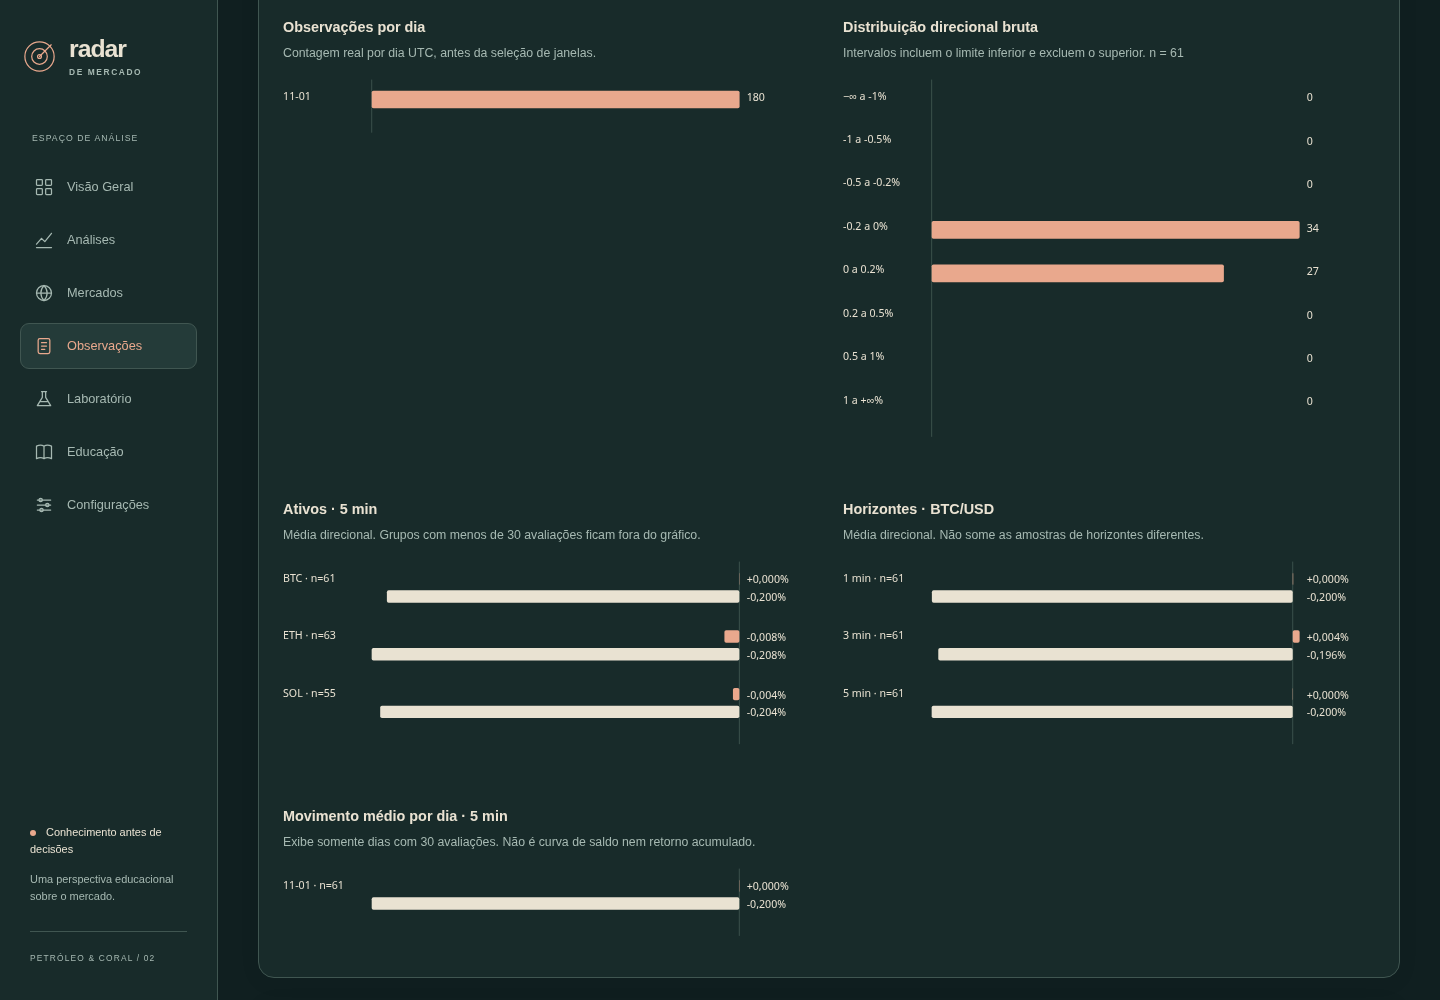
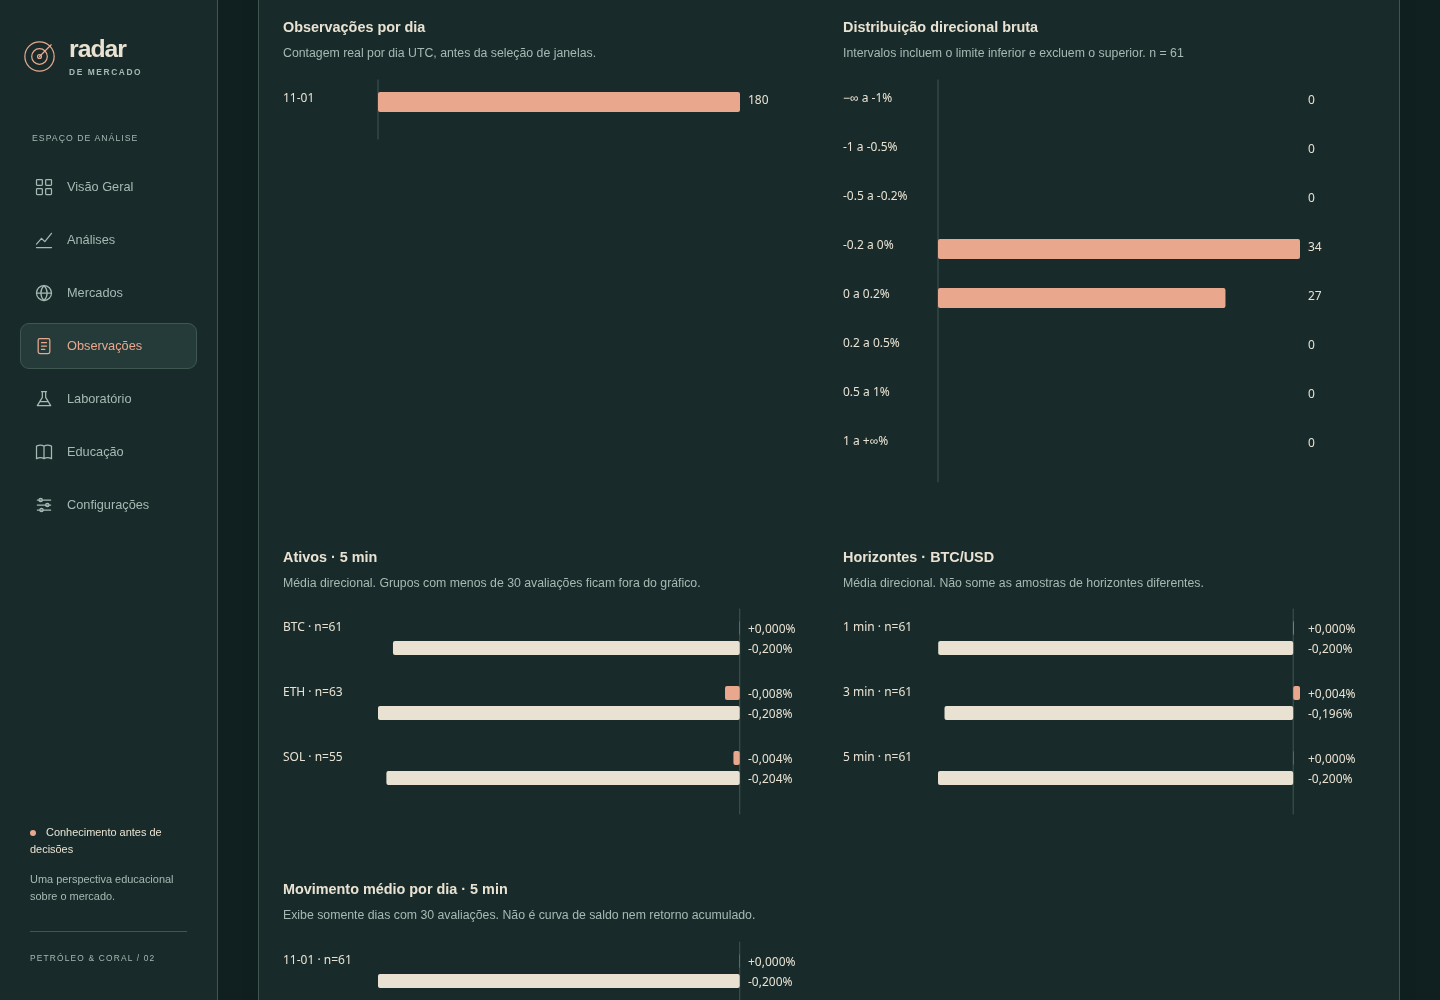
fix: keep statistical charts readable on narrow screens

diff --git a/intelligence.js b/intelligence.js
@@ -7,6 +7,7 @@
  const pct=n=>Number.isFinite(n)?(n>0?'+':'')+fmt(n)+'%':'—';
  const date=n=>Number.isFinite(n)?new Date(n).toLocaleString('pt-BR'):'Sem registro no período';
  const label=m=>m==='legacy-unversioned'?'Anterior · não comprovada':m;
+ let chartSnapshot=null,monitorSnapshot=null,resizeTimer=null;
  let query=null,cursors=[null],page=0,next=null,busy=false,started=false;
  async function request(path,params){const response=await fetch(BASE+path+'?'+params,{signal:AbortSignal.timeout(12000)});const data=await response.json();if(!response.ok)throw Error(data.error?.message||'Consulta indisponível');return data}
  function table(headers,rows){const t=el('table',undefined,'history-table'),head=el('thead'),tr=el('tr');headers.forEach(h=>tr.append(el('th',h)));head.append(tr);t.append(head);const body=el('tbody');for(const row of rows){const tr=el('tr');row.forEach((value,i)=>{const td=el('td');td.dataset.label=headers[i];if(typeof value==='string')td.textContent=value;else td.append(value);tr.append(td)});body.append(tr)}t.append(body);return t}
@@ -24,7 +25,7 @@
  function bars(parent,title,items,{percent=false,paired=false,note=''}={}){
   const box=el('article',undefined,'intelligence-chart');box.append(el('h3',title));parent.append(box);
   if(!items.length){empty(box,'Amostra insuficiente para este gráfico. São necessárias 30 avaliações válidas por grupo.');box.prepend(el('h3',title));return}
-  box.append(el('p',note));const ns='http://www.w3.org/2000/svg',svg=document.createElementNS(ns,'svg');const width=600,row=paired?65:49,height=items.length*row+30,left=100,right=85,plot=width-left-right;
+  box.append(el('p',note));const ns='http://www.w3.org/2000/svg',svg=document.createElementNS(ns,'svg');const width=Math.max(280,Math.min(700,box.clientWidth||600)),row=paired?65:49,height=items.length*row+30,left=95,right=75,plot=width-left-right;
   svg.setAttribute('viewBox',`0 0 ${width} ${height}`);svg.setAttribute('role','img');svg.setAttribute('aria-label',title+'. '+items.map(x=>x.label+': '+fmt(x.value,percent?3:0)+(percent?'%':'')+(paired?', após custos '+pct(x.net):'')).join('; '));
   const values=items.flatMap(x=>paired?[x.value,x.net]:[x.value]).filter(Number.isFinite),min=Math.min(0,...values),max=Math.max(0,...values),span=max-min||1,scale=v=>left+(v-min)/span*plot,zero=scale(0);
   function add(tag,attrs,text){const n=document.createElementNS(ns,tag);for(const [k,v] of Object.entries(attrs))n.setAttribute(k,v);if(text!==undefined)n.textContent=text;svg.append(n)}
@@ -33,6 +34,7 @@
   box.append(svg);
  }
  function charts(data){
+  chartSnapshot=data;
   const area=$('hiCharts');area.replaceChildren();const symbol=data.filters.symbol||'BTCUSD',h=data.filters.horizon||5,g=data.groups.find(x=>x.symbol===symbol&&x.horizon===h);
   $('hiChartContext').textContent=label(data.filters.methodology)+' · Distribuição e evolução: '+symbol.replace('USD','/USD')+' / '+h+' min. Coral: bruto; areia: após custos. Comparações usam amostras distintas, sem indicar o melhor ativo futuro.';
   bars(area,'Observações por dia',data.daily.slice(-31).map(x=>({label:x.day.slice(5),value:x.observations})),{note:'Contagem real por dia UTC, antes da seleção de janelas.'});
@@ -48,6 +50,7 @@
   $('hiHistory').replaceChildren(table(['Registro','Condição observada','Resultados direcionais brutos','Origem'],data.items.map(x=>[detail(x.symbol.replace('USD','/USD'),date(x.time)),detail(x.direction===1?'Alta ↑':x.direction===-1?'Baixa ↓':'Inválida','Referência: '+fmt(x.reference_price,2)+' '+(x.quote||'cotação não comprovada')),detail((query.get('horizon')?[Number(query.get('horizon'))]:[1,3,5]).map(h=>h+' min: '+(Number.isFinite(x.results[h])?pct(x.results[h]):'pendente / sem resultado')).join(' · '),label(x.methodology_version)),detail(x.source,x.study_type==='prospective'?'Prospectiva · D1':'Origem histórica sem comprovação')])));
  }
  function monitor(data,health){
+  monitorSnapshot={data,health};
   const states={operational:'Operacional',partial:'Parcialmente operacional',cooldown:'Aguardando limite da API',stale:'Dados desatualizados',unavailable:'Indisponível'};
   const status=health?states[health.providerState]||health.providerLabel||'Estado não informado':'Estado atual indisponível';
   $('hiMonitorStatus').textContent='Worker: '+(health?'respondeu à consulta':'sem resposta confirmada')+' · Fonte: '+status+' · Última execução no período: '+date(data.last_run?.started_at)+' · Última execução completa com sucesso: '+date(data.last_all_success_in_complete_slots)+'. Monitoramento confirmado desde '+date(data.instrumented_from)+'.';
@@ -66,7 +69,7 @@
  async function refresh(){
   if(busy)return;try{query=filters()}catch(e){$('hiStatus').textContent=e.message;return}
   busy=true;cursors=[null];page=0;next=null;$('hiRefresh').disabled=true;$('hiNext').disabled=true;$('hiPrevious').disabled=true;$('hiStatus').textContent='Consultando registros armazenados…';
-  for(const id of ['hiSummary','hiStatistics','hiCharts','hiHistory','hiMonitoring','hiAvailability','hiCooldown'])$(id).replaceChildren();$('hiPageStatus').textContent='Carregando histórico…';$('hiMonitorStatus').textContent='Carregando diagnósticos…';
+  chartSnapshot=null;monitorSnapshot=null;for(const id of ['hiSummary','hiStatistics','hiCharts','hiHistory','hiMonitoring','hiAvailability','hiCooldown'])$(id).replaceChildren();$('hiPageStatus').textContent='Carregando histórico…';$('hiMonitorStatus').textContent='Carregando diagnósticos…';
   const monitoringParams=new URLSearchParams({from:String(Math.max(Number(query.get('from')),Number(query.get('to'))-7*86400000)),to:query.get('to')});
   const responses=await Promise.allSettled([request('/history',query),request('/statistics',query),request('/collector-history',monitoringParams),request('/health',new URLSearchParams())]);
   if(responses[0].status==='fulfilled'){const d=responses[0].value;history(d);for(const value of d.methodologies)if(![...$('hiMethod').options].some(x=>x.value===value)){const option=el('option',label(value));option.value=value;$('hiMethod').append(option)}}else $('hiPageStatus').textContent=responses[0].reason.message;
@@ -77,7 +80,9 @@
  document.addEventListener('DOMContentLoaded',()=>{
   const now=Date.now();$('hiFrom').value=new Date(now-6*86400000).toISOString().slice(0,10);$('hiTo').value=new Date(now).toISOString().slice(0,10);
   $('intelligenceFilters').addEventListener('submit',e=>{e.preventDefault();refresh()});$('hiNext').addEventListener('click',()=>{if(next&&!busy){cursors[page+1]=next;loadPage(page+1,next)}});$('hiPrevious').addEventListener('click',()=>{if(page>0&&!busy)loadPage(page-1,cursors[page-1])});
-  function activate(){if(location.hash==='#observacoes'&&!started){started=true;refresh()}}activate();window.addEventListener('hashchange',activate);
+  function redraw(){if(chartSnapshot)charts(chartSnapshot);if(monitorSnapshot)monitor(monitorSnapshot.data,monitorSnapshot.health)}
+  function activate(){if(location.hash!=='#observacoes')return;if(!started){started=true;refresh()}else redraw()}activate();window.addEventListener('hashchange',activate);
+  window.addEventListener('resize',()=>{clearTimeout(resizeTimer);resizeTimer=setTimeout(()=>{if(location.hash==='#observacoes')redraw()},150)});
   setInterval(()=>{if(started&&!document.querySelector('[data-view="observacoes"]').hidden&&document.visibilityState==='visible'&&$('cloudAuto').checked)refresh()},300000);
  });
  root.RadarIntelligence=Object.freeze({statistics,charts,history,monitor,refresh});

diff --git a/scripts/verify-preview-v60.py b/scripts/verify-preview-v60.py
@@ -1,0 +1,31 @@
+"""Read-only public verification. TLS verified by curl. No Coinbase/probe active calls."""
+import json,pathlib,subprocess,time,urllib.parse,statistics,math,hashlib
+root=pathlib.Path(__file__).resolve().parent.parent
+site='https://radar-de-mercado-preview.rvc3426.workers.dev';collector='https://radar-cloud-collector-preview.rvc3426.workers.dev'
+def fetch(url):return subprocess.check_output(['curl','--fail-with-body','-sS','--max-time','25',url])
+def get(path,params=None):return json.loads(fetch(collector+path+('?' + urllib.parse.urlencode(params) if params else '')))
+assets={}
+for f in ['index.html','indicators.js','statistics.js','engine.js','dashboard.js','intelligence.js','petroleo.css']:
+ remote=fetch(site+'/'+f);local=(root/f).read_bytes();assert remote==local,f;assets[f]=hashlib.sha256(remote).hexdigest()
+now=int(time.time()*1000);params={'from':now-7*86400000,'to':now-30*60000,'methodology':'v5.7','limit':25}
+items=[];cursor=None;pages=0
+while True:
+ d=get('/history',{**params,**({'cursor':cursor} if cursor else {})});items.extend(d['items']);pages+=1;cursor=d['next_cursor'];assert pages<100
+ if not cursor:break
+assert len(items)==d['total'];assert len({(x['time'],x['symbol']) for x in items})==len(items)
+s=get('/statistics',params);assert s['totals']['observations']==len(items)
+for g in s['groups']:
+ rows=sorted([x for x in items if x['symbol']==g['symbol']],key=lambda x:x['time']);selected=[];end=-math.inf
+ for x in rows:
+  if x['time']>=end:selected.append(x);end=x['time']+g['horizon']*60000
+ values=[x['results'][str(g['horizon'])] for x in selected if str(g['horizon']) in x['results']]
+ assert g['evaluated']==len(values);assert g['pending']==len(selected)-len(values)
+ if values:
+  assert abs(g['mean_gross']-statistics.mean(values))<1e-10
+  assert abs(g['median_gross']-statistics.median(values))<1e-10
+  assert abs(g['mean_net']-(statistics.mean(values)-.2))<1e-10
+  assert g['favorable']==sum(v>0 for v in values)
+health=get('/health');probe=get('/probe');assert health['version']=='5.7.2';assert probe['mode']=='stored';assert health['workerOk']
+monitor=get('/collector-history',{'from':now-86400000,'to':now});assert len(monitor['assets'])==3
+output={'verifiedAt':now,'assetsSha256':assets,'history':{'observations':len(items),'pages':pages,'methodology':'v5.7','range':params},'statistics':'Compared with independent Python mean/median/counts for all asset/horizon groups','health':health,'monitoring':monitor,'probeMode':probe['mode']}
+(root/'artifacts/live-intelligence.json').write_text(json.dumps(output,ensure_ascii=False,indent=2));print(json.dumps({'assetsIdentical':len(assets),'historyCount':len(items),'pages':pages,'provider':health['providerState'],'scheduleDelayed':health['scheduleDelayed'],'lastRun':health['last_run']['started_at'],'monitorExpected':monitor['expected_slots']},ensure_ascii=False,indent=2))

diff --git a/scripts/capture-live-v60.py b/scripts/capture-live-v60.py
@@ -1,0 +1,31 @@
+"""Render published assets and current HTTP responses, TLS checked by curl.
+The test transport disables WebSocket only in Chromium, without emitting an open event.
+"""
+import json,pathlib,subprocess,time
+from playwright.sync_api import sync_playwright
+root=pathlib.Path(__file__).resolve().parent.parent
+origin='https://radar-de-mercado-preview.rvc3426.workers.dev'
+cache={}
+def fetch(url):
+ if url not in cache:cache[url]=subprocess.check_output(['curl','-sS','--fail-with-body','--max-time','25',url])
+ return cache[url]
+results=[]
+with sync_playwright() as p:
+ browser=p.chromium.launch(executable_path='/usr/bin/chromium',args=['--no-sandbox'])
+ for width in [1440,390]:
+  ctx=browser.new_context(viewport={'width':width,'height':1000 if width>600 else 844},device_scale_factor=1,is_mobile=width<600,has_touch=width<600,reduced_motion='reduce')
+  ctx.add_init_script('window.WebSocket=class{close(){}};')
+  def route(r):
+   url=r.request.url
+   if not url.startswith('https://'):r.continue_();return
+   body=fetch(url);kind='application/json' if '.workers.dev/' in url and 'collector-preview' in url or 'binance.vision' in url else 'text/css' if '.css' in url else 'application/javascript' if '.js' in url else 'text/html'
+   r.fulfill(body=body,content_type=kind,headers={'access-control-allow-origin':origin})
+  ctx.route('**/*',route);page=ctx.new_page();errors=[];page.on('pageerror',lambda e:errors.append(str(e)));page.goto(origin,wait_until='networkidle')
+  page.locator('.dashboard-nav [data-route="observacoes"]').click();page.wait_for_function("document.getElementById('hiStatus').textContent.includes('Atualizado')")
+  assert page.locator('#hiHistory tbody tr').count()>0;assert page.locator('#hiCharts svg').count()>0;assert page.locator('#chart canvas').count()>0;assert page.evaluate('document.documentElement.scrollWidth<=innerWidth')
+  page.evaluate("document.getElementById('inteligencia').scrollIntoView({block:'start'})");page.screenshot(path=str(root/f'artifacts/live-intelligence-{width}.png'),full_page=False)
+  assert not errors,errors
+  results.append({'width':width,'pageerrors':errors,'historyRows':page.locator('#hiHistory tbody tr').count(),'chartCanvases':page.locator('#chart canvas').count(),'monitor':page.locator('#hiMonitorStatus').inner_text(),'status':page.locator('#hiStatus').inner_text()})
+  ctx.close()
+ browser.close()
+(root/'artifacts/live-intelligence-browser.json').write_text(json.dumps({'at':int(time.time()*1000),'engine':'Chromium','transport':'HTTPS via curl, WebSocket disabled in harness','checks':results},ensure_ascii=False,indent=2));print(json.dumps(results,ensure_ascii=False,indent=2))

diff --git a/scripts/test-intelligence.py b/scripts/test-intelligence.py
@@ -39,6 +39,11 @@ try:
    page.locator('.dashboard-nav [data-route="observacoes"]').click();page.wait_for_function("!document.getElementById('hiRefresh').disabled && document.getElementById('hiStatistics').textContent.includes('n =')")
    assert 'Atualizado' in page.locator('#hiStatus').inner_text();assert page.locator('#hiHistory tbody tr').count()==25;assert page.locator('#hiCharts svg').count()>0
    assert page.locator('#hiMonitoring tbody tr').count()==3
+   assert page.evaluate("[...document.querySelectorAll('#hiCharts svg text')].every(x=>parseFloat(getComputedStyle(x).fontSize)*x.getCTM().a>=11)"),(width,'chart labels too small')
+   if width==1440:
+    page.set_viewport_size({'width':375,'height':844});page.wait_for_timeout(250)
+    assert page.evaluate("[...document.querySelectorAll('#hiCharts svg text')].every(x=>parseFloat(getComputedStyle(x).fontSize)*x.getCTM().a>=11)")
+    page.set_viewport_size({'width':1440,'height':1000});page.wait_for_timeout(250)
    first=page.locator('#hiHistory tbody tr').first.inner_text();page.locator('#hiNext').click();page.wait_for_function("document.getElementById('hiPageStatus').textContent.includes('página 2')");assert first!=page.locator('#hiHistory tbody tr').first.inner_text()
    page.locator('#hiPrevious').click();page.wait_for_function("document.getElementById('hiPageStatus').textContent.includes('página 1')");assert first==page.locator('#hiHistory tbody tr').first.inner_text()
    assert page.evaluate('document.documentElement.scrollWidth<=innerWidth'),(width,'overflow')

diff --git a/docs/HISTORICAL-INTELLIGENCE-v60.md b/docs/HISTORICAL-INTELLIGENCE-v60.md
@@ -80,3 +80,15 @@ Comandos e resultados finais, links CI/deploy e capturas estão na seção de ev
 - Chromium: quatro larguras, navegação, canvas de candles, paginação ida/volta, filtros combinados, custo, gráficos SVG, estados vazios e falha de rede. Zero pageerrors e nenhuma rolagem horizontal da página. `artifacts/intelligence-browser.json` contém resultados e métricas locais. Primeiro conteúdo visível entre 0,2–0,5s no cenário local capturado; não é benchmark de rede móvel.
 - Capturas: `artifacts/intelligence-{1440,768,390,375}.png` e `artifacts/intelligence-charts-{1440,390}.png`. Dataset real capturado em 01/11/2026 às 15:28:29 UTC. Não são dados inventados nem evidência de disponibilidade atual.
 - Pré-publicação: D1 tinha 286 observações e 846 resultados. Impressões FNV-1a de 64 bits (comparação de conteúdo, não prova criptográfica), ordenadas por rowid: observações até rowid 286 = `83e176e4b38a28ad`; resultados até rowid 846 = `6162e9bc1323823c`. Todas as consultas da auditoria retornaram rows_written = 0. Os mesmos subconjuntos serão conferidos após o upload; novos registros normais do Cron não devem ser confundidos com alteração do histórico.
+
+### Primeira publicação confirmada
+
+- Commit funcional `813a652277847b9d1d5d0fcd626b507455d8f297`; [Actions aprovado](https://github.com/rvc3527-cell/radar-de-mercado/actions/runs/41367256172). [PR #6](https://github.com/rvc3527-cell/radar-de-mercado/pull/6), base fix/coinbase-rate-limit-v572, draft para revisão, sem merge.
+- Coletor experimental publicado em 02/11/2026 00:29:16 UTC, versão `cee67a3f-e370-41b8-bcc1-440e2739cfa4`, deployment `b8e5daaa-258a-46a4-b50f-002ef021ef65`, ativo 100%. Binding DB e compatibilidade 2026-10-01 preservados; Cron mantém created_on/modified_on originais e */5.
+- UI experimental publicada às 00:30:36 UTC, versão inicial `99e2605a-d2af-4c26-b436-891f54c917f8`, deployment `e31f52b3-8942-4f30-9379-6653d5a10ebf`, ativo 100%. Revisão posterior melhora a legibilidade dos SVGs em 375/390 px: dimensões calculadas pela largura real, redesenho ao redimensionar/retornar à seção, teste exige fonte renderizada >= 11 px. Não modifica APIs/coletor.
+- Sete arquivos públicos idênticos byte a byte ao código testado. Paginação pública percorreu 266 observações v5.7 em 11 páginas, sem duplicações (recorte encerrado 30 minutos antes da consulta). Médias/medianas brutas, média líquida, favoráveis, pendentes e N de todos os grupos comparados com Python independente. `scripts/verify-preview-v60.py` reproduz essa conferência; só faz leituras.
+- Chromium do site publicado, respostas HTTP atuais, 1440 e 390 px: 25 registros/página, gráficos SVG e sete canvases de mercado, zero pageerrors/overflow. Capturas live-intelligence-* e relatório live-intelligence-browser.json. Transporte HTTPS obtido por curl com TLS validado, pois Chromium não confia no certificado do proxy local; WebSocket desativado somente no harness, sem simular evento de conexão aberta. Não certifica streaming/Safari real.
+- A execução real das 00:30:50 UTC foi registrada **após** o upload do backend; scheduleDelayed=false. Relatório era cooldown para os três ativos; na leitura às 00:31 a espera já havia vencido, mas candles continuavam antigos e /health retornou stale. O painel mostrou “Dados desatualizados”. Último sucesso completo no recorte: 00:20:50 UTC. Há 429 persistentes do provedor, não eliminados pela Fase 6.
+- Conferência pós-upload dos subconjuntos antigos: 286 observações e 846 resultados com os mesmos fingerprints anteriores, nenhuma escrita das consultas de auditoria. Produção mantém modified_on `2026-10-31T20:18:49.8865Z`. Nenhuma migração executada ou pendente nesta fase.
+
+Arquivos de runtime: historical.js (API/agregações/monitoramento), cloud-collector.js (somente encaminhamento), intelligence.js (UI/consultas/gráficos), index.html e petroleo.css (integração no tema), scripts/build-preview.mjs (novo asset). Validação/documentação: tests/historical.test.mjs, testes/fixtures e helpers ajustados para integração, .github/workflows/indicators.yml (sintaxe nova), scripts/serve-history-fixture.mjs, scripts/test-intelligence.py, scripts/verify-preview-v60.py, scripts/capture-live-v60.py, artifacts/intelligence-*, artifacts/live-intelligence-* e este documento. Lista exata no diff do PR.
